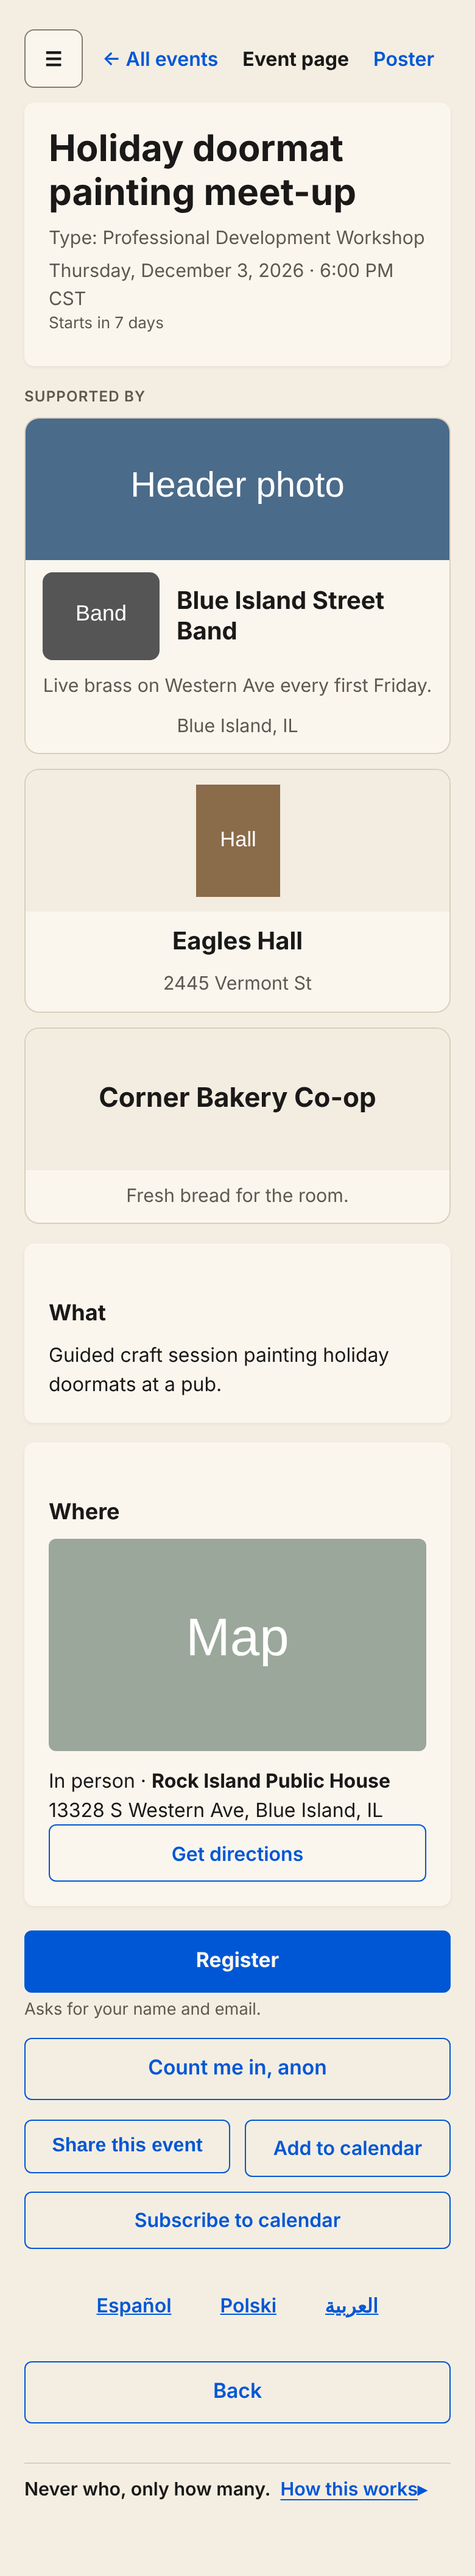
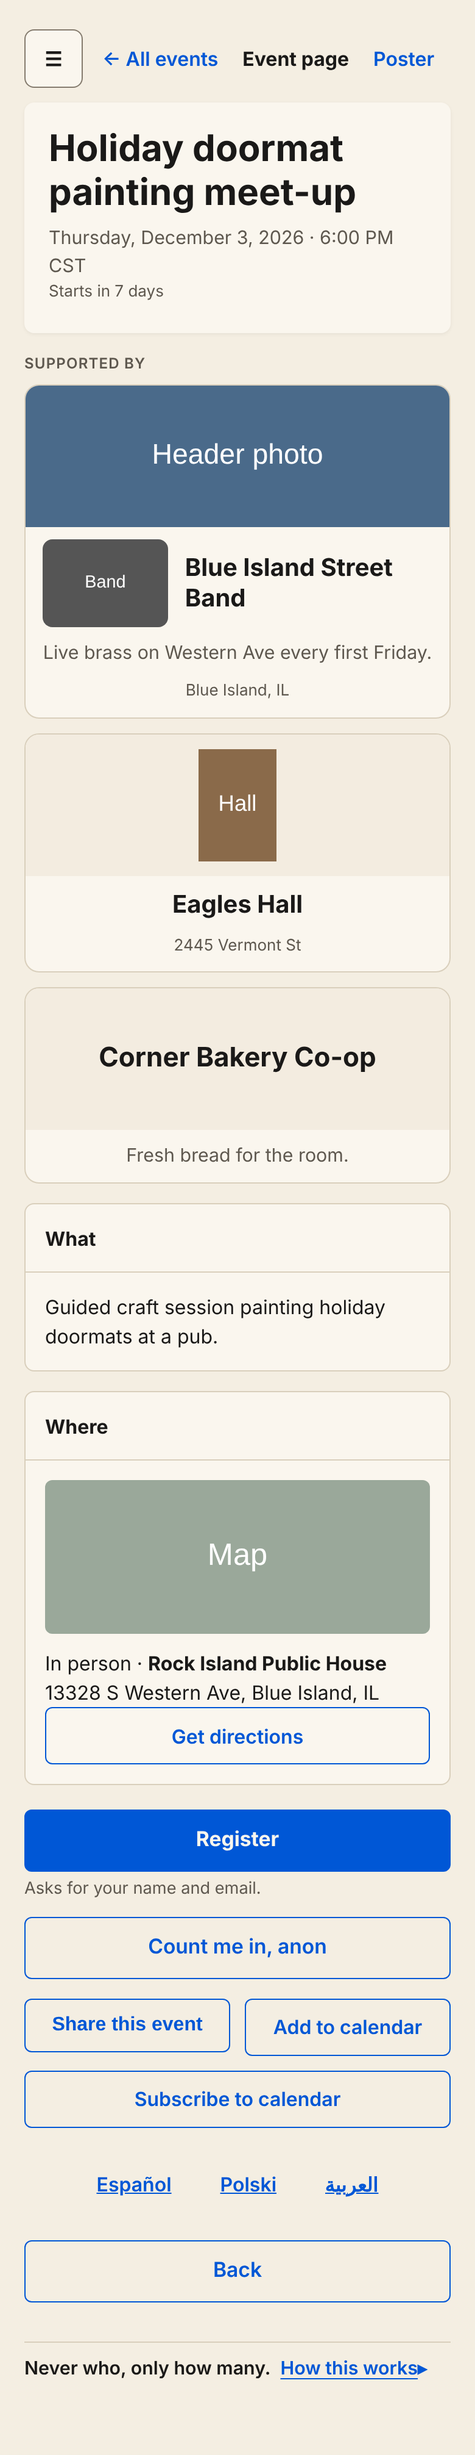
Event page cards: What, Where and the other details each get their own card
Each detail section (What, Where, Who, How much, Why, How) is now a hub
sectioned card: a titled header row over the body, with the same border as
the sponsor cards. The page's own CSS shrinks, so the design-check baseline
drops from 12916 to 12763.

Claude-Session: https://claude.ai/code/session_0141doGcqgNYVqC28mkUP45c

diff --git a/workers/oursharedevents/src/handlers/pages.ts b/workers/oursharedevents/src/handlers/pages.ts
@@ -1539,9 +1539,8 @@ ${EVENT_ACTIONS_CSS}
 ${NEXT_AT_VENUE_CSS}
 ${NEVER_WHO_CSS}
 ${SPONSOR_LIST_CSS}
+    .ose-section { margin: 0 0 1rem; } .ose-section > h2 { margin: 0; font-size: 1rem; }
     .ose-section p { margin: 0; }
-    /* OSE-655: WHO host photo (the conversion engine gets a face) + WHAT video
-       link-out. Circular avatar; tasteful, mobile-first, 44px tap target on the link. */
     .ose-who-image { width: 120px; height: 120px; object-fit: cover; border-radius: 50%; display: block; margin-bottom: 0.75rem; background: var(--ose-accent-tint); }
     .ose-what-video { color: var(--ose-accent); text-decoration: none; font-weight: 600; display: inline-block; min-height: 44px; line-height: 44px; }
     .ose-what-video:hover { text-decoration: underline; }
@@ -1572,33 +1571,39 @@ ${SPONSOR_LIST_CSS}
 
     ${
       whatShort || whatVideo || whatLink
-        ? `<section class="ose-card ose-section" data-testid="event-what" aria-labelledby="what-heading">
-           <h2 id="what-heading">${msg(lang, 'section.what')}</h2>
+        ? `<section class="card card--sectioned ose-section" data-testid="event-what" aria-labelledby="what-heading">
+           <h2 class="card-header" id="what-heading">${msg(lang, 'section.what')}</h2>
+           <div class="card-body">
            ${whatShort ? `<p>${isolateTyped(lang, whatShort)}</p>` : ''}
            ${whatVideo ? `<p><a class="ose-what-video" data-testid="event-what-video" href="${esc(whatVideo)}" target="_blank" rel="noopener noreferrer nofollow">${msg(lang, 'video.watch')}</a></p>` : ''}
            ${whatLink}
+         </div>
          </section>`
         : ''
     }
 
     ${
       // OSE-2012: every event says how people take part, so the card always shows.
-      `<section class="ose-card ose-section" data-testid="event-where" aria-labelledby="where-heading">
-           <h2 id="where-heading">${msg(lang, 'section.where')}</h2>
+      `<section class="card card--sectioned ose-section" data-testid="event-where" aria-labelledby="where-heading">
+           <h2 class="card-header" id="where-heading">${msg(lang, 'section.where')}</h2>
+           <div class="card-body">
            ${mapImg}
            ${attendanceModeLine(row, lang, venueDisplay)}
            ${whereAddress && whereAddress !== venueDisplay ? `<p>${isolateTyped(lang, whereAddress)}</p>` : ''}
            ${geoLink}
+         </div>
          </section>`
     }
 
     ${
       whoHost || whoStory || whoImage
-        ? `<section class="ose-card ose-section" data-testid="event-who" aria-labelledby="who-heading">
-           <h2 id="who-heading">${msg(lang, 'section.who')}</h2>
+        ? `<section class="card card--sectioned ose-section" data-testid="event-who" aria-labelledby="who-heading">
+           <h2 class="card-header" id="who-heading">${msg(lang, 'section.who')}</h2>
+           <div class="card-body">
            ${whoImage ? `<img class="ose-who-image" data-testid="event-who-image" src="${esc(whoImage)}" alt="${whoHost ? fmt(lang, 'who.photoOf', { host: whoHost }) : msg(lang, 'who.host')}" loading="lazy" width="120" height="120" />` : ''}
            ${whoHost ? `<p data-testid="event-who-host">${isolateTyped(lang, whoHost)}</p>` : ''}
            ${whoStory ? `<p class="ose-who-story" data-testid="event-who-story">${isolateTyped(lang, whoStory)}</p>` : ''}
+         </div>
          </section>`
         : ''
     }
@@ -1610,9 +1615,11 @@ ${SPONSOR_LIST_CSS}
       const howMuch = formatEventPrice(row, lang);
       return howMuch === null
         ? ''
-        : `<section class="ose-card ose-section" data-testid="event-how-much" aria-labelledby="how-much-heading">
-           <h2 id="how-much-heading">${msg(lang, 'section.howMuch')}</h2>
+        : `<section class="card card--sectioned ose-section" data-testid="event-how-much" aria-labelledby="how-much-heading">
+           <h2 class="card-header" id="how-much-heading">${msg(lang, 'section.howMuch')}</h2>
+           <div class="card-body">
            <p>${esc(howMuch)}</p>
+         </div>
          </section>`;
     })()}
 
@@ -1628,18 +1635,22 @@ ${SPONSOR_LIST_CSS}
 
     ${
       whyPurpose
-        ? `<section class="ose-card ose-section" data-testid="event-why" aria-labelledby="why-heading">
-           <h2 id="why-heading">${msg(lang, 'section.why')}</h2>
+        ? `<section class="card card--sectioned ose-section" data-testid="event-why" aria-labelledby="why-heading">
+           <h2 class="card-header" id="why-heading">${msg(lang, 'section.why')}</h2>
+           <div class="card-body">
            <p>${whyPurpose}</p>
+         </div>
          </section>`
         : ''
     }
 
     ${
       howDetails
-        ? `<section class="ose-card ose-section" data-testid="event-how" aria-labelledby="how-heading">
-           <h2 id="how-heading">${msg(lang, 'section.how')}</h2>
+        ? `<section class="card card--sectioned ose-section" data-testid="event-how" aria-labelledby="how-heading">
+           <h2 class="card-header" id="how-heading">${msg(lang, 'section.how')}</h2>
+           <div class="card-body">
            <p>${howDetails}</p>
+         </div>
          </section>`
         : ''
     }
@@ -1748,9 +1759,8 @@ ${EVENT_ACTIONS_CSS}
 ${NEXT_AT_VENUE_CSS}
 ${NEVER_WHO_CSS}
 ${SPONSOR_LIST_CSS}
+    .ose-section { margin: 0 0 1rem; } .ose-section > h2 { margin: 0; font-size: 1rem; }
     .ose-section p { margin: 0; }
-    /* OSE-655: WHO host photo (the conversion engine gets a face) + WHAT video
-       link-out. Circular avatar; tasteful, mobile-first, 44px tap target on the link. */
     .ose-who-image { width: 120px; height: 120px; object-fit: cover; border-radius: 50%; display: block; margin-bottom: 0.75rem; background: var(--ose-accent-tint); }
     .ose-what-video { color: var(--ose-accent); text-decoration: none; font-weight: 600; display: inline-block; min-height: 44px; line-height: 44px; }
     .ose-what-video:hover { text-decoration: underline; }
@@ -1785,30 +1795,36 @@ ${SPONSOR_LIST_CSS}
 
     ${
       whatShort || whatLink
-        ? `<section class="ose-card ose-section" data-testid="event-what-live" aria-labelledby="what-heading-live">
-           <h2 id="what-heading-live">${msg(lang, 'section.what')}</h2>
+        ? `<section class="card card--sectioned ose-section" data-testid="event-what-live" aria-labelledby="what-heading-live">
+           <h2 class="card-header" id="what-heading-live">${msg(lang, 'section.what')}</h2>
+           <div class="card-body">
            ${whatShort ? `<p>${isolateTyped(lang, whatShort)}</p>` : ''}
            ${whatLink}
+         </div>
          </section>`
         : ''
     }
 
     ${
       // OSE-2012: every event says how people take part, so the card always shows.
-      `<section class="ose-card ose-section" data-testid="event-where-live" aria-labelledby="where-heading-live">
-           <h2 id="where-heading-live">${msg(lang, 'section.where')}</h2>
+      `<section class="card card--sectioned ose-section" data-testid="event-where-live" aria-labelledby="where-heading-live">
+           <h2 class="card-header" id="where-heading-live">${msg(lang, 'section.where')}</h2>
+           <div class="card-body">
            ${mapImg}
            ${attendanceModeLine(row, lang, venueDisplay)}
            ${whereAddress && whereAddress !== venueDisplay ? `<p>${isolateTyped(lang, whereAddress)}</p>` : ''}
            ${geoLink}
+         </div>
          </section>`
     }
 
     ${
       whoHost
-        ? `<section class="ose-card ose-section" data-testid="event-who-live" aria-labelledby="who-heading-live">
-           <h2 id="who-heading-live">${msg(lang, 'section.who')}</h2>
+        ? `<section class="card card--sectioned ose-section" data-testid="event-who-live" aria-labelledby="who-heading-live">
+           <h2 class="card-header" id="who-heading-live">${msg(lang, 'section.who')}</h2>
+           <div class="card-body">
            <p>${isolateTyped(lang, whoHost)}</p>
+         </div>
          </section>`
         : ''
     }
@@ -1820,9 +1836,11 @@ ${SPONSOR_LIST_CSS}
       const howMuch = formatEventPrice(row, lang);
       return howMuch === null
         ? ''
-        : `<section class="ose-card ose-section" data-testid="event-how-much-live" aria-labelledby="how-much-heading-live">
-           <h2 id="how-much-heading-live">${msg(lang, 'section.howMuch')}</h2>
+        : `<section class="card card--sectioned ose-section" data-testid="event-how-much-live" aria-labelledby="how-much-heading-live">
+           <h2 class="card-header" id="how-much-heading-live">${msg(lang, 'section.howMuch')}</h2>
+           <div class="card-body">
            <p>${esc(howMuch)}</p>
+         </div>
          </section>`;
     })()}
 
@@ -1832,18 +1850,22 @@ ${SPONSOR_LIST_CSS}
 
     ${
       whyPurpose
-        ? `<section class="ose-card ose-section" data-testid="event-why-live" aria-labelledby="why-heading-live">
-           <h2 id="why-heading-live">${msg(lang, 'section.why')}</h2>
+        ? `<section class="card card--sectioned ose-section" data-testid="event-why-live" aria-labelledby="why-heading-live">
+           <h2 class="card-header" id="why-heading-live">${msg(lang, 'section.why')}</h2>
+           <div class="card-body">
            <p>${whyPurpose}</p>
+         </div>
          </section>`
         : ''
     }
 
     ${
       howDetails
-        ? `<section class="ose-card ose-section" data-testid="event-how-live" aria-labelledby="how-heading-live">
-           <h2 id="how-heading-live">${msg(lang, 'section.how')}</h2>
+        ? `<section class="card card--sectioned ose-section" data-testid="event-how-live" aria-labelledby="how-heading-live">
+           <h2 class="card-header" id="how-heading-live">${msg(lang, 'section.how')}</h2>
+           <div class="card-body">
            <p>${howDetails}</p>
+         </div>
          </section>`
         : ''
     }
@@ -2055,7 +2077,7 @@ ${NEXT_AT_VENUE_CSS}
 ${EVENT_ACTIONS_CSS}
 ${NEVER_WHO_CSS}
 ${SPONSOR_LIST_CSS}
-    /* OSE-1136: the recap's WHERE/WHO cards reuse the pre-event 5W styling. */
+    .ose-section { margin: 0 0 1rem; } .ose-section > h2 { margin: 0; font-size: 1rem; }
     .ose-section p { margin: 0 0 0.5rem; }
     .ose-venue-map { width: 100%; max-width: 100%; height: auto; border-radius: 6px; display: block; margin-bottom: 0.75rem; }
     .ose-who-image { width: 120px; height: 120px; object-fit: cover; border-radius: 50%; display: block; margin-bottom: 0.75rem; background: var(--ose-accent-tint); }${DARK_MODE_CSS}
@@ -2097,22 +2119,26 @@ ${SPONSOR_LIST_CSS}
 
       ${
         // OSE-2012: every event says how people take part, so the card always shows.
-        `<section class="ose-card ose-section" data-testid="event-where-post" aria-labelledby="where-heading-post">
-             <h2 id="where-heading-post">${msg(lang, 'section.where')}</h2>
+        `<section class="card card--sectioned ose-section" data-testid="event-where-post" aria-labelledby="where-heading-post">
+             <h2 class="card-header" id="where-heading-post">${msg(lang, 'section.where')}</h2>
+             <div class="card-body">
              ${mapImg}
              ${attendanceModeLine(row, lang, venueDisplay)}
              ${whereAddress && whereAddress !== venueDisplay ? `<p>${isolateTyped(lang, whereAddress)}</p>` : ''}
-           </section>`
+           </div>
+         </section>`
       }
 
       ${
         whoHost || whoStory || whoImage
-          ? `<section class="ose-card ose-section" data-testid="event-who-post" aria-labelledby="who-heading-post">
-             <h2 id="who-heading-post">${msg(lang, 'section.who')}</h2>
+          ? `<section class="card card--sectioned ose-section" data-testid="event-who-post" aria-labelledby="who-heading-post">
+             <h2 class="card-header" id="who-heading-post">${msg(lang, 'section.who')}</h2>
+             <div class="card-body">
              ${whoImage ? `<img class="ose-who-image" data-testid="event-who-image-post" src="${esc(whoImage)}" alt="${whoHost ? fmt(lang, 'who.photoOf', { host: whoHost }) : msg(lang, 'who.host')}" loading="lazy" width="120" height="120" />` : ''}
              ${whoHost ? `<p data-testid="event-who-host-post">${isolateTyped(lang, whoHost)}</p>` : ''}
              ${whoStory ? `<p class="ose-who-story" data-testid="event-who-story-post">${isolateTyped(lang, whoStory)}</p>` : ''}
-           </section>`
+           </div>
+         </section>`
           : ''
       }
 
@@ -2121,10 +2147,12 @@ ${SPONSOR_LIST_CSS}
         // string; #6 inert_monetization holds — display only, no charge logic).
         howMuch === null
           ? ''
-          : `<section class="ose-card ose-section" data-testid="event-how-much-post" aria-labelledby="how-much-heading-post">
-             <h2 id="how-much-heading-post">${msg(lang, 'section.howMuch')}</h2>
+          : `<section class="card card--sectioned ose-section" data-testid="event-how-much-post" aria-labelledby="how-much-heading-post">
+             <h2 class="card-header" id="how-much-heading-post">${msg(lang, 'section.howMuch')}</h2>
+             <div class="card-body">
              <p>${esc(howMuch)}</p>
-           </section>`
+           </div>
+         </section>`
       }
 
       ${(() => {
@@ -2193,9 +2221,11 @@ ${SPONSOR_LIST_CSS}
     <!-- WHY — deeper detail, below the ask (mirrors pre/live: facts → ask → detail). -->
     ${
       whyPurpose
-        ? `<section class="ose-card ose-section" data-testid="event-why-post" aria-labelledby="why-heading-post">
-           <h2 id="why-heading-post">${msg(lang, 'section.why')}</h2>
+        ? `<section class="card card--sectioned ose-section" data-testid="event-why-post" aria-labelledby="why-heading-post">
+           <h2 class="card-header" id="why-heading-post">${msg(lang, 'section.why')}</h2>
+           <div class="card-body">
            <p>${whyPurpose}</p>
+         </div>
          </section>`
         : ''
     }
